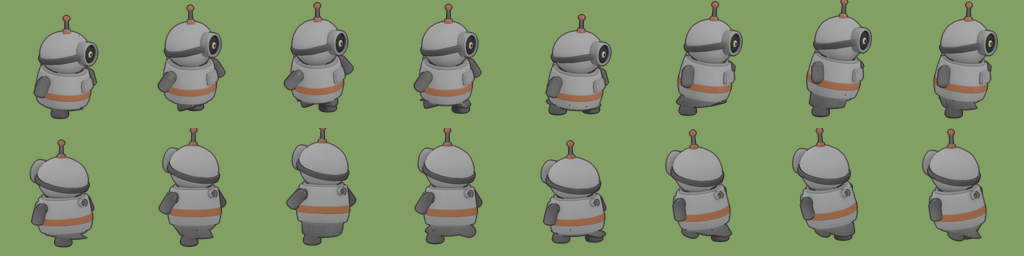
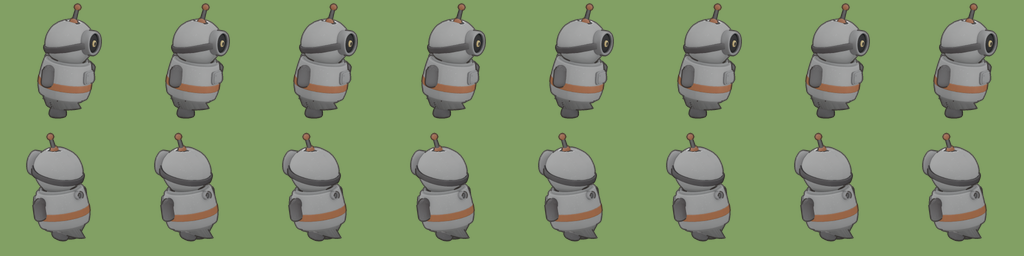
3D render: the stubby's antenna springs (Materia's Dangle)
The antenna is cut as a part riding on the head and bent after a Verlet tip,
softer than Materia's (300, not 900, so it shows at 256 px), bending from the
rod above its nub (no seam) with a 40 degree stop (the run resonated to 80).
Simulated three loops ahead so clips loop. All 12 checks still pass.

diff --git a/tools/render3d/animate_parts.py b/tools/render3d/animate_parts.py
@@ -5,7 +5,9 @@ The T-pose places the mesh: the stubs stick out along one axis, which becomes X.
 into body, head (above the neck, the narrowest slice between the stubs and the antenna), the two stubs (outside the
 barrel at their height) and the two feet (the bottom slices), each a rigid part on a pivot, and moved by the gait
 Materia's stubby moves by (materia-experiments tools/bake/monsters/stubby.ts): an idle bob with a look round, and a
-hopping waddle whose roll the head lags. The stubs are first lowered from the T-pose to hang by the body.
+hopping waddle whose roll the head lags. The stubs are first lowered from the T-pose to hang by the body. The antenna
+(above the dome) rides on the head and bends after a springy tip, as Materia's does (its `Dangle`), simulated over a
+few loops first so each clip loops.
 
     python tools/render3d/animate_parts.py MESH.glb INPUT.png OUT_DIR --name stubby --clip idle:36 --clip walk:8
 
@@ -22,9 +24,11 @@ from paint_rig import CELL, DIAGONALS, FPS, cell
 from render_mesh import matched_gamma, renderer, texture_shade, textured
 from rig_mesh import Body
 
-PARTS = ("body", "head", "right stub", "left stub", "right foot", "left foot")
-COLOURS = torch.tensor([[0.75, 0.75, 0.75], [0.35, 0.6, 0.95], [0.95, 0.45, 0.3], [0.95, 0.8, 0.3], [0.4, 0.8, 0.4], [0.7, 0.4, 0.85]])
-MATERIA_HEIGHT = 1.1    # the Materia stubby's height in its own units, which its gait's distances are in
+PARTS = ("body", "head", "right stub", "left stub", "right foot", "left foot", "antenna")
+COLOURS = torch.tensor([[0.75, 0.75, 0.75], [0.35, 0.6, 0.95], [0.95, 0.45, 0.3], [0.95, 0.8, 0.3], [0.4, 0.8, 0.4], [0.7, 0.4, 0.85],
+                        [0.9, 0.3, 0.6]])
+MATERIA_HEIGHT = 1.1
+LIMIT = math.radians(40)   # how far the antenna bends    # the Materia stubby's height in its own units, which its gait's distances are in
 
 
 def placed(vertices, height, flip):
@@ -56,15 +60,33 @@ def parts(v, height, feet, neck):
     neck = slices[widths.argmin()].item() + 0.005 if neck is None else neck
     label = torch.zeros(len(v), dtype=torch.long)
     label[f >= neck] = 1
+    # The antenna: what rises above the dome, the first slice up from the head's middle narrower than a third of it.
+    head = rest & (f >= neck)
+    top = f[head].max().item()
+    slices = torch.arange(neck + (top - neck) / 2, top, 0.005)
+    widths = torch.stack([radius[head & (f >= a) & (f < a + 0.005)].max() for a in slices])
+    base = slices[(widths < widths.max() / 3).nonzero()[0, 0]].item()
+    antenna = head & (f >= base)
+    label[antenna] = 6
     label[stub] = 2 + side[stub]
     low = f < feet
     label[low] = 4 + side[low]
-    pivots = {"neck": torch.tensor([0.0, neck * height, 0.0])}
+    # It bends from where its nub narrows to the rod (the first slice up within a fifth of the rod's median width),
+    # so the nub stays on the dome.
+    rod = v[antenna]
+    centre = torch.stack([rod[:, 0].mean(), rod[:, 2].mean()])
+    width = (rod[:, [0, 2]] - centre).norm(dim=1)
+    ups = torch.arange(base * height, rod[:, 1].max().item(), 0.004)
+    widths = torch.stack([width[(rod[:, 1] >= a) & (rod[:, 1] < a + 0.004)].max() for a in ups])
+    bend = ups[(widths < widths.median() * 1.2).nonzero()[0, 0]]
+    pivots = {"neck": torch.tensor([0.0, neck * height, 0.0]),
+              "antenna": torch.stack([centre[0], bend, centre[1]]),
+              "antenna tip": rod[rod[:, 1] > rod[:, 1].quantile(0.95)].mean(0)}
     for k in (0, 1):
         s = v[stub & (side == k)]
         pivots[PARTS[2 + k]] = torch.stack([torch.sign(s[:, 0].mean()) * barrel, s[:, 1].mean(), s[:, 2].mean()])
         pivots[PARTS[4 + k]] = v[low & (side == k)].mean(0)
-    print(f"barrel half-width {barrel:.3f} m, neck at {neck:.3f} of the height, feet below {feet:.2f}; "
+    print(f"barrel half-width {barrel:.3f} m, neck at {neck:.3f} of the height, antenna above {base:.3f} bending at {bend / height:.3f}, feet below {feet:.2f}; "
           + ", ".join(f"{p} {(label == i).sum().item()}" for i, p in enumerate(PARTS)))
     return label, pivots
 
@@ -120,6 +142,67 @@ def pose(clip, t, seconds, height, pivots, hang):
     return torch.stack([body, head, *stubs, *feet])
 
 
+class Dangle:
+    """A springy tip on a root (Materia's stubby.ts Dangle, one point): Verlet, pulled to where the part holds it at
+    rest, kept at its length from the root, a little weight. Its distances in Materia's units, scaled by k."""
+
+    def __init__(self, root, rest, k, stiff=900.0, fall=0.4, damp=0.86):
+        self.root, self.rest, self.length = root, rest, (rest - root).norm()
+        self.fall, self.stiff, self.damp = fall * k, stiff, damp
+        self.tip = self.before = None
+
+    def step(self, carry, dt):
+        """carry: the 4x4 of the part the root rides on, now."""
+        root, rest = (carry[:3, :3] @ p + carry[:3, 3] for p in (self.root, self.rest))
+        if self.tip is None:
+            self.tip, self.before = rest.clone(), rest.clone()
+        moving = (self.tip - self.before) * self.damp
+        self.before = self.tip.clone()
+        tip = self.tip + moving + (rest - self.tip) * min(1.0, self.stiff * dt * dt)
+        tip[1] -= self.fall * dt * dt
+        rest_way, way = F.normalize(rest - root, dim=0), F.normalize(tip - root, dim=0)
+        # A stop: it bends no further than LIMIT, or the run's twice-faster steps set it flopping.
+        if (rest_way @ way) < math.cos(LIMIT):
+            across = F.normalize(way - rest_way * (rest_way @ way), dim=0)
+            way = rest_way * math.cos(LIMIT) + across * math.sin(LIMIT)
+        self.tip = root + way * self.length
+        return root, rest, self.tip
+
+
+def swing(clip, frames, height, pivots, hang, stiff, warm=3, rate=120):
+    """The antenna's (root, rest tip, tip) at each frame of the loop, the dangle run for `warm` loops first so the loop
+    it records has settled (and so starts where it ends)."""
+    seconds = frames / FPS
+    dangle = Dangle(pivots["antenna"], pivots["antenna tip"], height / MATERIA_HEIGHT, stiff)
+    n = round(rate / FPS)
+    out = []
+    for i in range(-warm * frames, frames):
+        for j in range(n):
+            t = (i + j / n) / FPS
+            state = dangle.step(pose(clip, t % seconds, seconds, height, pivots, hang)[1], 1 / rate)
+        if i >= 0:
+            out.append(state)
+    return out
+
+
+def bent(positions, rod, state):
+    """Turns the antenna's posed vertices above its root about it, from the rest tip's direction to the dangle's, the
+    turn eased in over the rod's first quarter so it bends instead of breaking."""
+    root, rest, tip = state
+    a, b = F.normalize(rest - root, dim=0), F.normalize(tip - root, dim=0)
+    axis, angle = torch.cross(a, b, dim=0), torch.acos((a @ b).clamp(-1, 1))
+    if angle < 1e-5:
+        return positions
+    axis = F.normalize(axis, dim=0)
+    x = positions[rod] - root
+    u = ((x @ a) / (rest - root).norm() / 0.25).clamp(0, 1)
+    theta = (angle * u * u * (3 - 2 * u))[:, None]
+    turned = x * torch.cos(theta) + torch.cross(axis.expand_as(x), x, dim=1) * torch.sin(theta) + axis * (x @ axis)[:, None] * (1 - torch.cos(theta))
+    out = positions.clone()
+    out[rod] = root + turned
+    return out
+
+
 def normals_of(positions, faces):
     n = torch.zeros_like(positions)
     a, b, c = positions[faces[:, 0]], positions[faces[:, 1]], positions[faces[:, 2]]
@@ -149,6 +232,7 @@ def main():
     parser.add_argument("--feet", type=float, default=0.085, help="the feet are the slices below this fraction of the height")
     parser.add_argument("--neck", type=float, help="fraction of the height; found as the narrowest slice when not given")
     parser.add_argument("--hang", type=float, default=70.0, help="degrees the stubs are lowered from the T-pose")
+    parser.add_argument("--stiff", type=float, default=300.0, help="the antenna's spring; Materia's 900 barely shows at 256 px")
     parser.add_argument("--clip", action="append", default=[], help="NAME:FRAMES with NAME idle, walk or run, a loop at 12 fps")
     args = parser.parse_args()
     torch.set_grad_enabled(False)
@@ -159,7 +243,8 @@ def main():
     # The neck bends softly over a couple of centimetres, so the head does not tear from the collar; the rest is rigid.
     neck_y = pivots["neck"][1]
     up = torch.sigmoid((v[:, 1] - neck_y) / 0.006)
-    weights = F.one_hot(label, len(PARTS)).float()
+    rod = label == 6
+    weights = F.one_hot(torch.where(rod, 1, label), 6).float()     # the antenna rides on the head, then bends
     blend = (label <= 1)
     weights[blend, 0], weights[blend, 1] = 1 - up[blend], up[blend]
     gamma = matched_gamma(args.input, uv, texture)
@@ -180,8 +265,11 @@ def main():
         clip, frames = entry.rsplit(":", 1)
         frames = int(frames)
         seconds = frames / FPS
-        images = [frame(body, posed(pose(clip, i / FPS, seconds, args.height, pivots, math.radians(args.hang))), textured_shades)
-                  for i in range(frames)]
+        states = swing(clip, frames, args.height, pivots, math.radians(args.hang), args.stiff)
+        images = [frame(body, bent(posed(pose(clip, i / FPS, seconds, args.height, pivots, math.radians(args.hang))), rod, states[i]),
+                        textured_shades) for i in range(frames)]
+        tilt = [math.degrees(math.acos(F.normalize(r - o, dim=0) @ F.normalize(t - o, dim=0))) for o, r, t in states]
+        print(f"{clip}: the antenna swings up to {max(tilt):.1f}° off its rest")
         path = args.out / f"{args.name}.{clip}.webp"
         images[0].save(path, save_all=True, append_images=images[1:], duration=round(1000 / FPS), loop=0, lossless=True)
         print(path)

diff --git a/docs/spikes/3d-render.md b/docs/spikes/3d-render.md
@@ -251,18 +251,37 @@ animate it, and turn it back into game sprites. The whole loop, image to Materia
 | | identity | facing | coverage |
 |---|---|---|---|
 | idle (36 frames) | 0.941–0.975 | −0.019 (the head turned away) – 0.041 | 0.939–0.981 |
-| walk (8) | 0.930–0.954 | 0.022–0.057 | 0.960–0.979 |
-| run (8, the walk at twice the rate) | 0.930–0.954 | 0.022–0.057 | 0.960–0.979 |
+| walk (8) | 0.939–0.956 | 0.020–0.057 | 0.957–0.976 |
+| run (8, the walk at twice the rate) | 0.925–0.956 | 0.020–0.056 | 0.960–0.979 |
 
 Identity is at SCAIL2's level (0.94–0.96), up from the wolf's 0.81–0.87: the reference is rendered from the same
 mesh. Materia's `pack-atlas.py` packs idle/walk/run (at `--scale 0.75`: 36 frames × 256 px pass its 8192 px limit)
 and `check-atlas.py` says ok. It stands taller in its cell than Materia's stubby (feet at 236 vs 223 of 256), which
 `--height` or the packer's `heightBlocks` sets. Render: 2:38 for all 52 frames on a MacBook CPU.
 
+**Secondary motion: the springy antenna.** The antenna is cut as one more part (what rises above the dome, from the
+first slice narrower than a third of it) and rides on the head; its tip is Materia's `Dangle` (Verlet, pulled to
+its rest place, a little weight), stepped at 120 Hz. Three changes from Materia's:
+
+- The spring is softer, `--stiff 300` against Materia's 900: at 900 the walk bends it 4°, which doesn't show at
+  256 px; at 300, 23° (walk). 120 gave 42° and looked loose.
+- It bends from where the nub narrows to the rod, not from the dome: bending from the dome tilted the nub and
+  opened a seam round it.
+- A 40° stop: the run (the walk's steps at twice the rate) set it resonating to 80°; with the stop, 35°.
+
+It is simulated for three loops before the recorded one, so every clip loops without a jump. Walk, head
+enlarged (SE, NW):
+
+![antenna](3d-render/stubby-tpose-antenna.png)
+![run](3d-render/stubby-tpose-run.gif)
+
+The checks above are with the antenna swinging (walk identity 0.939–0.956, run 0.925–0.956, all pass). The idle
+hardly moves it (2°): the head's look round turns it about its own axis. The goggle strap has no loose tails in
+this drawing, so it has no dangles.
+
 What this shows: **for a machine, a T-pose drawing is enough** — no 4-view design, no projection, no rig. The pose
-gives the placement and the parts; the motion is a few lines of code per monster, as in Materia. What it doesn't
-show yet: a body without obvious parts (the wolf), and secondary motion (Materia's springy antenna and strap tails
-are Verlet chains, not here).
+gives the placement and the parts; the motion, springs included, is a few lines of code per monster, as in Materia.
+What it doesn't show yet: a body without obvious parts (the wolf).
 
 ## Costs and timings
 
